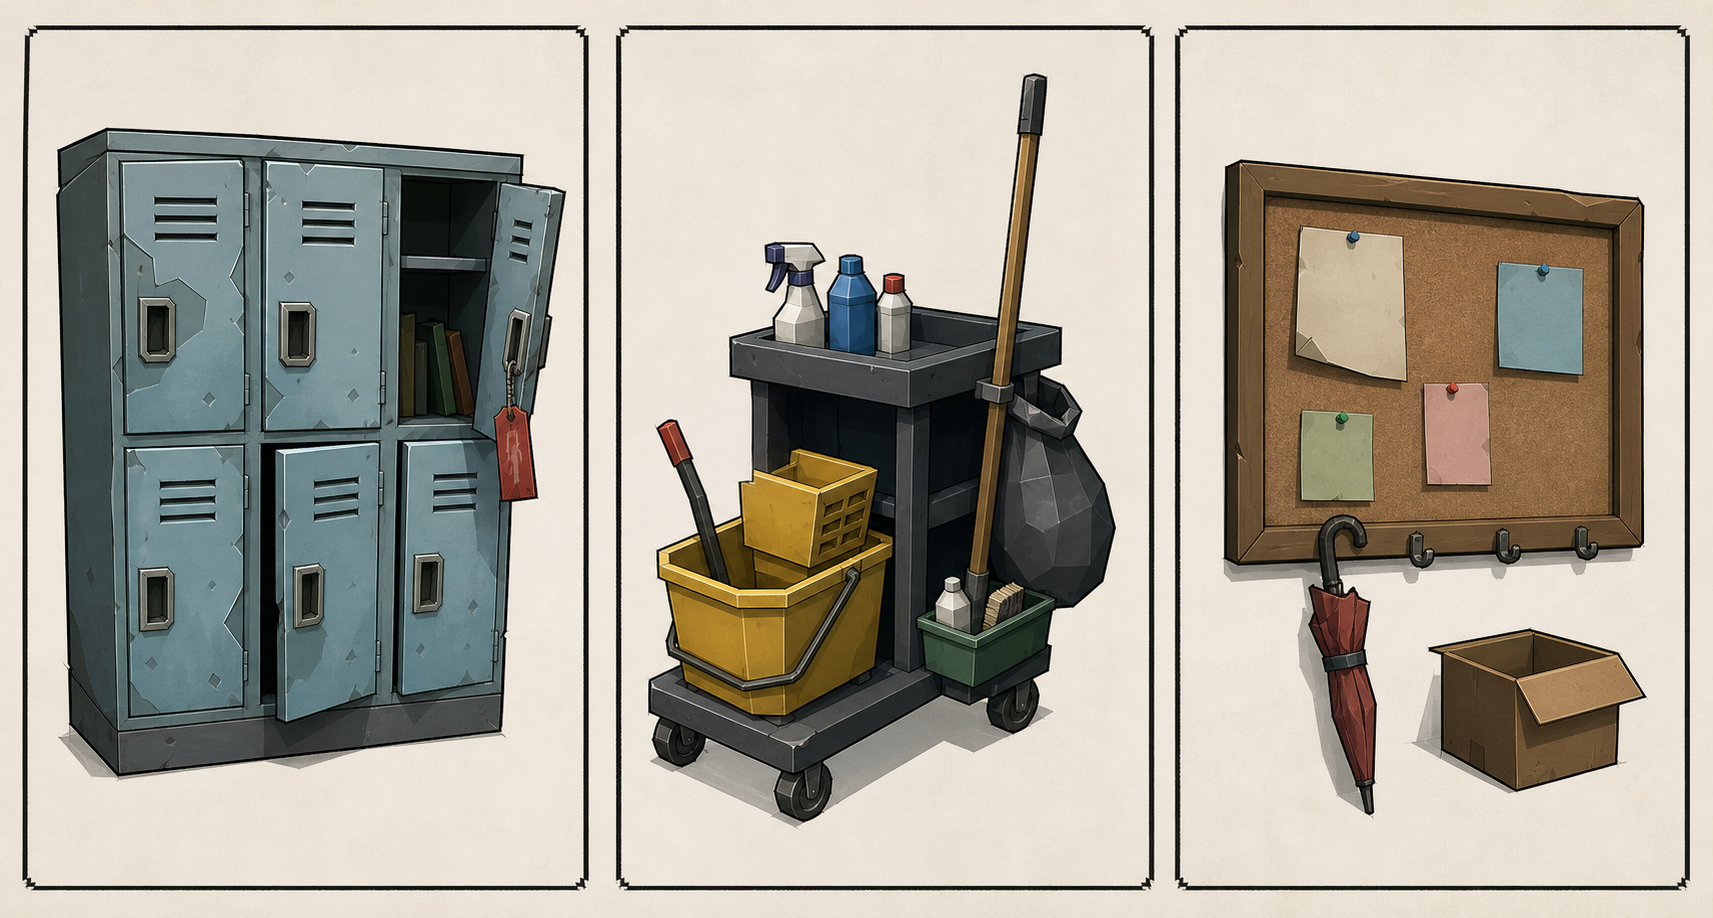
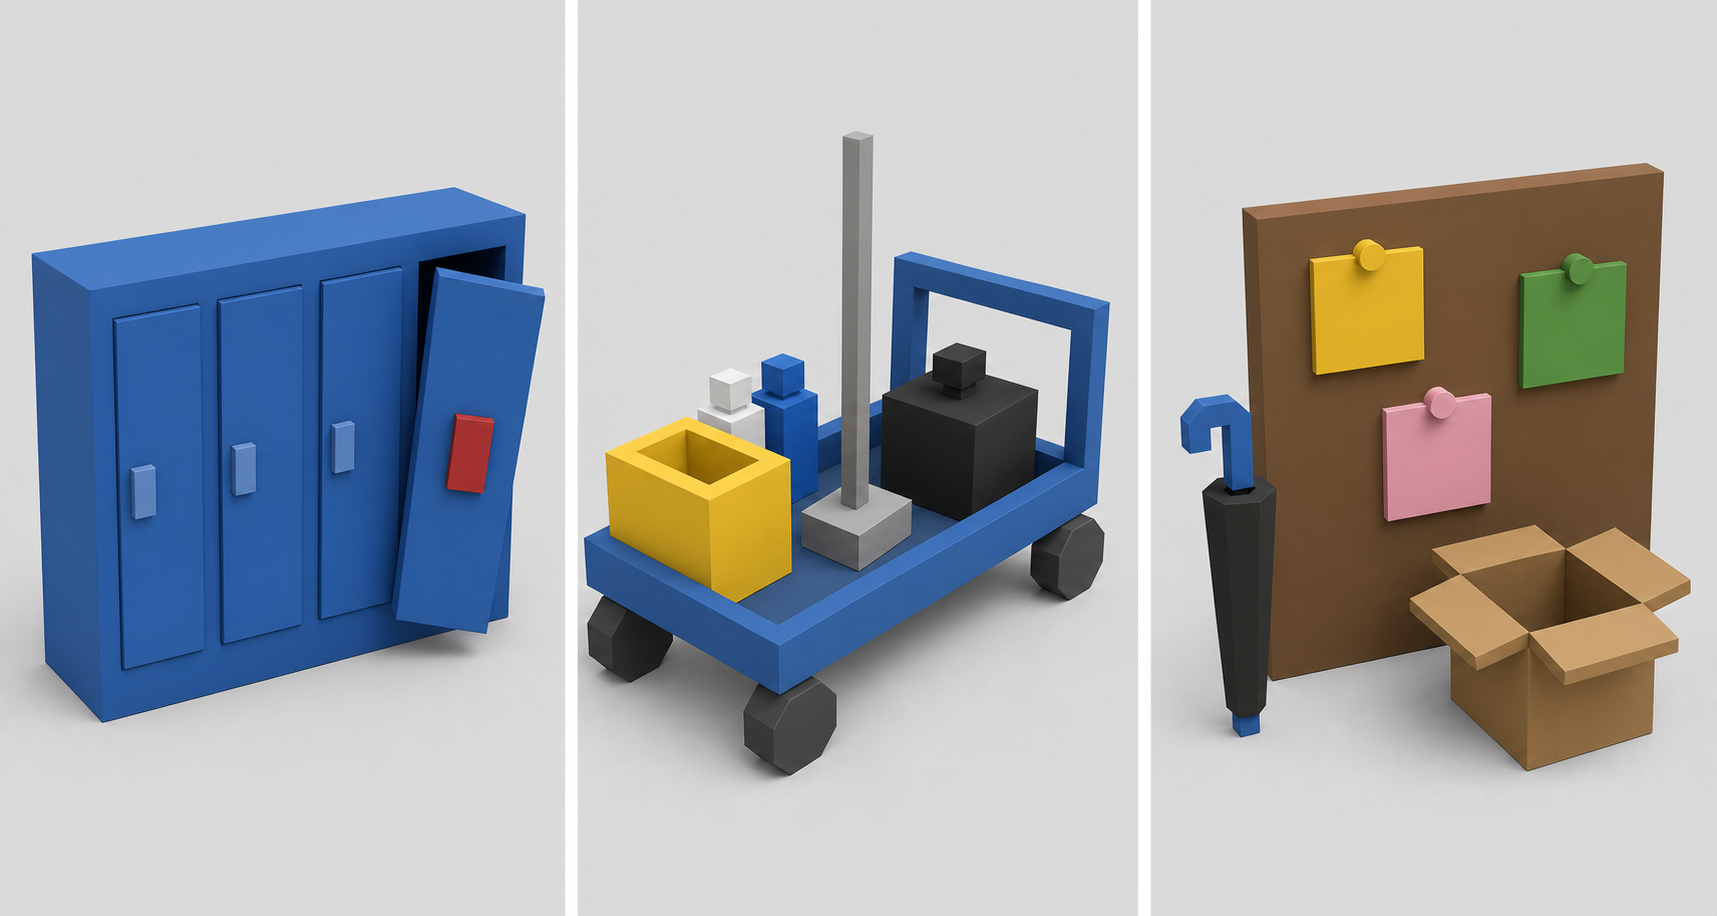
style(stage2): make corridor props fully low poly
Replace the corridor reference sheet with a Roblox-style blockout and reduce the three runtime props to box meshes and six-sided cylinders only.

diff --git a/Developer/r3f_prototype/src/components/StageObjects/CorridorProps.jsx b/Developer/r3f_prototype/src/components/StageObjects/CorridorProps.jsx
@@ -1,14 +1,11 @@
 import { useMemo } from 'react'
-import { outlineMat, toonMat } from '../../lib/toon.js'
-import { getPropOutlineScale, STAGE_PROP_MESH_RENDERING } from './propRendering.js'
+import { toonMat } from '../../lib/toon.js'
+import { STAGE_PROP_MESH_RENDERING } from './propRendering.js'
 import StudioTunedGroup from '../StudioTunedGroup.jsx'
 
 function PropBox({ position = [0, 0, 0], rotation = [0, 0, 0], size, material, outline }) {
   return (
     <group position={position} rotation={rotation}>
-      <mesh {...STAGE_PROP_MESH_RENDERING} material={outline} scale={getPropOutlineScale(size)}>
-        <boxGeometry args={[1, 1, 1]} />
-      </mesh>
       <mesh {...STAGE_PROP_MESH_RENDERING} material={material} scale={size}>
         <boxGeometry args={[1, 1, 1]} />
       </mesh>
@@ -19,9 +16,6 @@ function PropBox({ position = [0, 0, 0], rotation = [0, 0, 0], size, material, o
 function PropCylinder({ position = [0, 0, 0], rotation = [0, 0, 0], args, material, outline }) {
   return (
     <group position={position} rotation={rotation}>
-      <mesh {...STAGE_PROP_MESH_RENDERING} material={outline} scale={[1.05, 1.03, 1.05]}>
-        <cylinderGeometry args={args} />
-      </mesh>
       <mesh {...STAGE_PROP_MESH_RENDERING} material={material}>
         <cylinderGeometry args={args} />
       </mesh>
@@ -34,7 +28,7 @@ export function CorridorLockerBank(props) {
   const dark = useMemo(() => toonMat(0x35454a, 0.03), [])
   const tag = useMemo(() => toonMat(0xc8483c, 0.1), [])
   const metal = useMemo(() => toonMat(0xaebfc1, 0.04), [])
-  const outline = useMemo(() => outlineMat(0.92, 0x1a2326), [])
+  const outline = null
 
   return (
     <group {...props} name="corridor-locker-bank">
@@ -64,7 +58,7 @@ export function CorridorJanitorCart(props) {
   const bottleWhite = useMemo(() => toonMat(0xe9e6d7, 0.03), [])
   const wood = useMemo(() => toonMat(0x9c6a37, 0.03), [])
   const tire = useMemo(() => toonMat(0x202326, 0), [])
-  const outline = useMemo(() => outlineMat(0.92, 0x1a1e20), [])
+  const outline = null
 
   return (
     <group {...props} name="corridor-janitor-cart">
@@ -76,15 +70,13 @@ export function CorridorJanitorCart(props) {
         <PropBox position={[0, 0.42, -0.20]} size={[0.70, 0.08, 0.08]} material={frame} outline={outline} />
         <PropBox position={[-0.10, 0.37, 0.07]} size={[0.54, 0.34, 0.38]} material={bucket} outline={outline} />
         <PropBox position={[-0.10, 0.57, 0.07]} size={[0.40, 0.05, 0.27]} material={bucket} outline={outline} />
-        <PropCylinder position={[0.38, 1.25, 0.12]} rotation={[0.05, 0, -0.10]} args={[0.035, 0.035, 1.55, 8]} material={wood} outline={outline} />
-        <PropCylinder position={[0.38, 2.04, 0.12]} rotation={[0.05, 0, -0.10]} args={[0.065, 0.065, 0.20, 8]} material={frame} outline={outline} />
-        <PropCylinder position={[0.18, 0.98, -0.08]} args={[0.075, 0.09, 0.32, 8]} material={bottleBlue} outline={outline} />
-        <PropCylinder position={[0.34, 0.94, -0.08]} args={[0.065, 0.08, 0.24, 8]} material={bottleWhite} outline={outline} />
-        <mesh {...STAGE_PROP_MESH_RENDERING} position={[0.47, 0.73, 0.08]} material={bag} scale={[0.26, 0.42, 0.22]}>
-          <dodecahedronGeometry args={[1, 0]} />
-        </mesh>
+        <PropCylinder position={[0.38, 1.25, 0.12]} rotation={[0.05, 0, -0.10]} args={[0.035, 0.035, 1.55, 6]} material={wood} outline={outline} />
+        <PropCylinder position={[0.38, 2.04, 0.12]} rotation={[0.05, 0, -0.10]} args={[0.065, 0.065, 0.20, 6]} material={frame} outline={outline} />
+        <PropCylinder position={[0.18, 0.98, -0.08]} args={[0.075, 0.09, 0.32, 6]} material={bottleBlue} outline={outline} />
+        <PropCylinder position={[0.34, 0.94, -0.08]} args={[0.065, 0.08, 0.24, 6]} material={bottleWhite} outline={outline} />
+        <PropBox position={[0.47, 0.73, 0.08]} size={[0.42, 0.48, 0.36]} material={bag} outline={outline} />
         {[-0.42, 0.42].flatMap((x) => [-0.20, 0.20].map((z) => (
-          <PropCylinder key={`${x}:${z}`} position={[x, 0.10, z]} rotation={[Math.PI / 2, 0, 0]} args={[0.105, 0.105, 0.07, 10]} material={tire} outline={outline} />
+          <PropCylinder key={`${x}:${z}`} position={[x, 0.10, z]} rotation={[Math.PI / 2, 0, 0]} args={[0.105, 0.105, 0.07, 6]} material={tire} outline={outline} />
         )))}
       </StudioTunedGroup>
     </group>
@@ -99,7 +91,7 @@ export function CorridorLostFoundBoard(props) {
   const pinkPaper = useMemo(() => toonMat(0xd99791, 0.04), [])
   const pin = useMemo(() => toonMat(0xbd463f, 0.12), [])
   const umbrella = useMemo(() => toonMat(0x973e3a, 0.05), [])
-  const outline = useMemo(() => outlineMat(0.92, 0x2b1b12), [])
+  const outline = null
 
   return (
     <group {...props} name="corridor-lost-found-board">
@@ -110,11 +102,11 @@ export function CorridorLostFoundBoard(props) {
         <PropBox position={[0.31, 1.43, 0.075]} rotation={[0, 0, 0.04]} size={[0.29, 0.27, 0.018]} material={bluePaper} outline={outline} />
         <PropBox position={[0.02, 1.08, 0.075]} rotation={[0, 0, 0.03]} size={[0.26, 0.23, 0.018]} material={pinkPaper} outline={outline} />
         {[-0.30, 0.31, 0.02].map((x, index) => (
-          <PropCylinder key={x} position={[x, index === 2 ? 1.18 : 1.62, 0.10]} args={[0.034, 0.034, 0.04, 8]} material={pin} outline={outline} />
+          <PropCylinder key={x} position={[x, index === 2 ? 1.18 : 1.62, 0.10]} args={[0.034, 0.034, 0.04, 6]} material={pin} outline={outline} />
         ))}
-        {[-0.42, 0.42].map((x) => <PropCylinder key={x} position={[x, 0.72, 0.03]} rotation={[Math.PI / 2, 0, 0]} args={[0.045, 0.045, 0.07, 8]} material={frame} outline={outline} />)}
-        <PropCylinder position={[-0.42, 0.47, 0.05]} args={[0.06, 0.06, 0.42, 8]} material={umbrella} outline={outline} />
-        <PropCylinder position={[-0.42, 0.71, 0.05]} args={[0.025, 0.025, 0.28, 8]} material={frame} outline={outline} />
+        {[-0.42, 0.42].map((x) => <PropCylinder key={x} position={[x, 0.72, 0.03]} rotation={[Math.PI / 2, 0, 0]} args={[0.045, 0.045, 0.07, 6]} material={frame} outline={outline} />)}
+        <PropCylinder position={[-0.42, 0.47, 0.05]} args={[0.06, 0.06, 0.42, 6]} material={umbrella} outline={outline} />
+        <PropCylinder position={[-0.42, 0.71, 0.05]} args={[0.025, 0.025, 0.28, 6]} material={frame} outline={outline} />
       </StudioTunedGroup>
     </group>
   )

diff --git a/Developer/r3f_prototype/src/components/StageObjects/stageObjectAssets.test.jsx b/Developer/r3f_prototype/src/components/StageObjects/stageObjectAssets.test.jsx
@@ -102,4 +102,15 @@ describe('stage object asset catalog', () => {
     expect(CorridorLostFoundBoard).toBeTypeOf('function')
     expect(readFileSync(new URL('../../assets/concept/stage2_corridor_props_concept.png', import.meta.url)).subarray(1, 4).toString('ascii')).toBe('PNG')
   })
+
+  it('keeps Stage 2 corridor props to Roblox-style block primitives and six-sided cylinders', () => {
+    const source = readFileSync(new URL('./CorridorProps.jsx', import.meta.url), 'utf8')
+
+    expect(source).toContain('<boxGeometry')
+    expect(source).toContain('<cylinderGeometry')
+    expect(source).not.toContain('dodecahedronGeometry')
+    expect(source).not.toContain('material={outline}')
+    expect(source).not.toContain(', 8]')
+    expect(source).not.toContain(', 10]')
+  })
 })